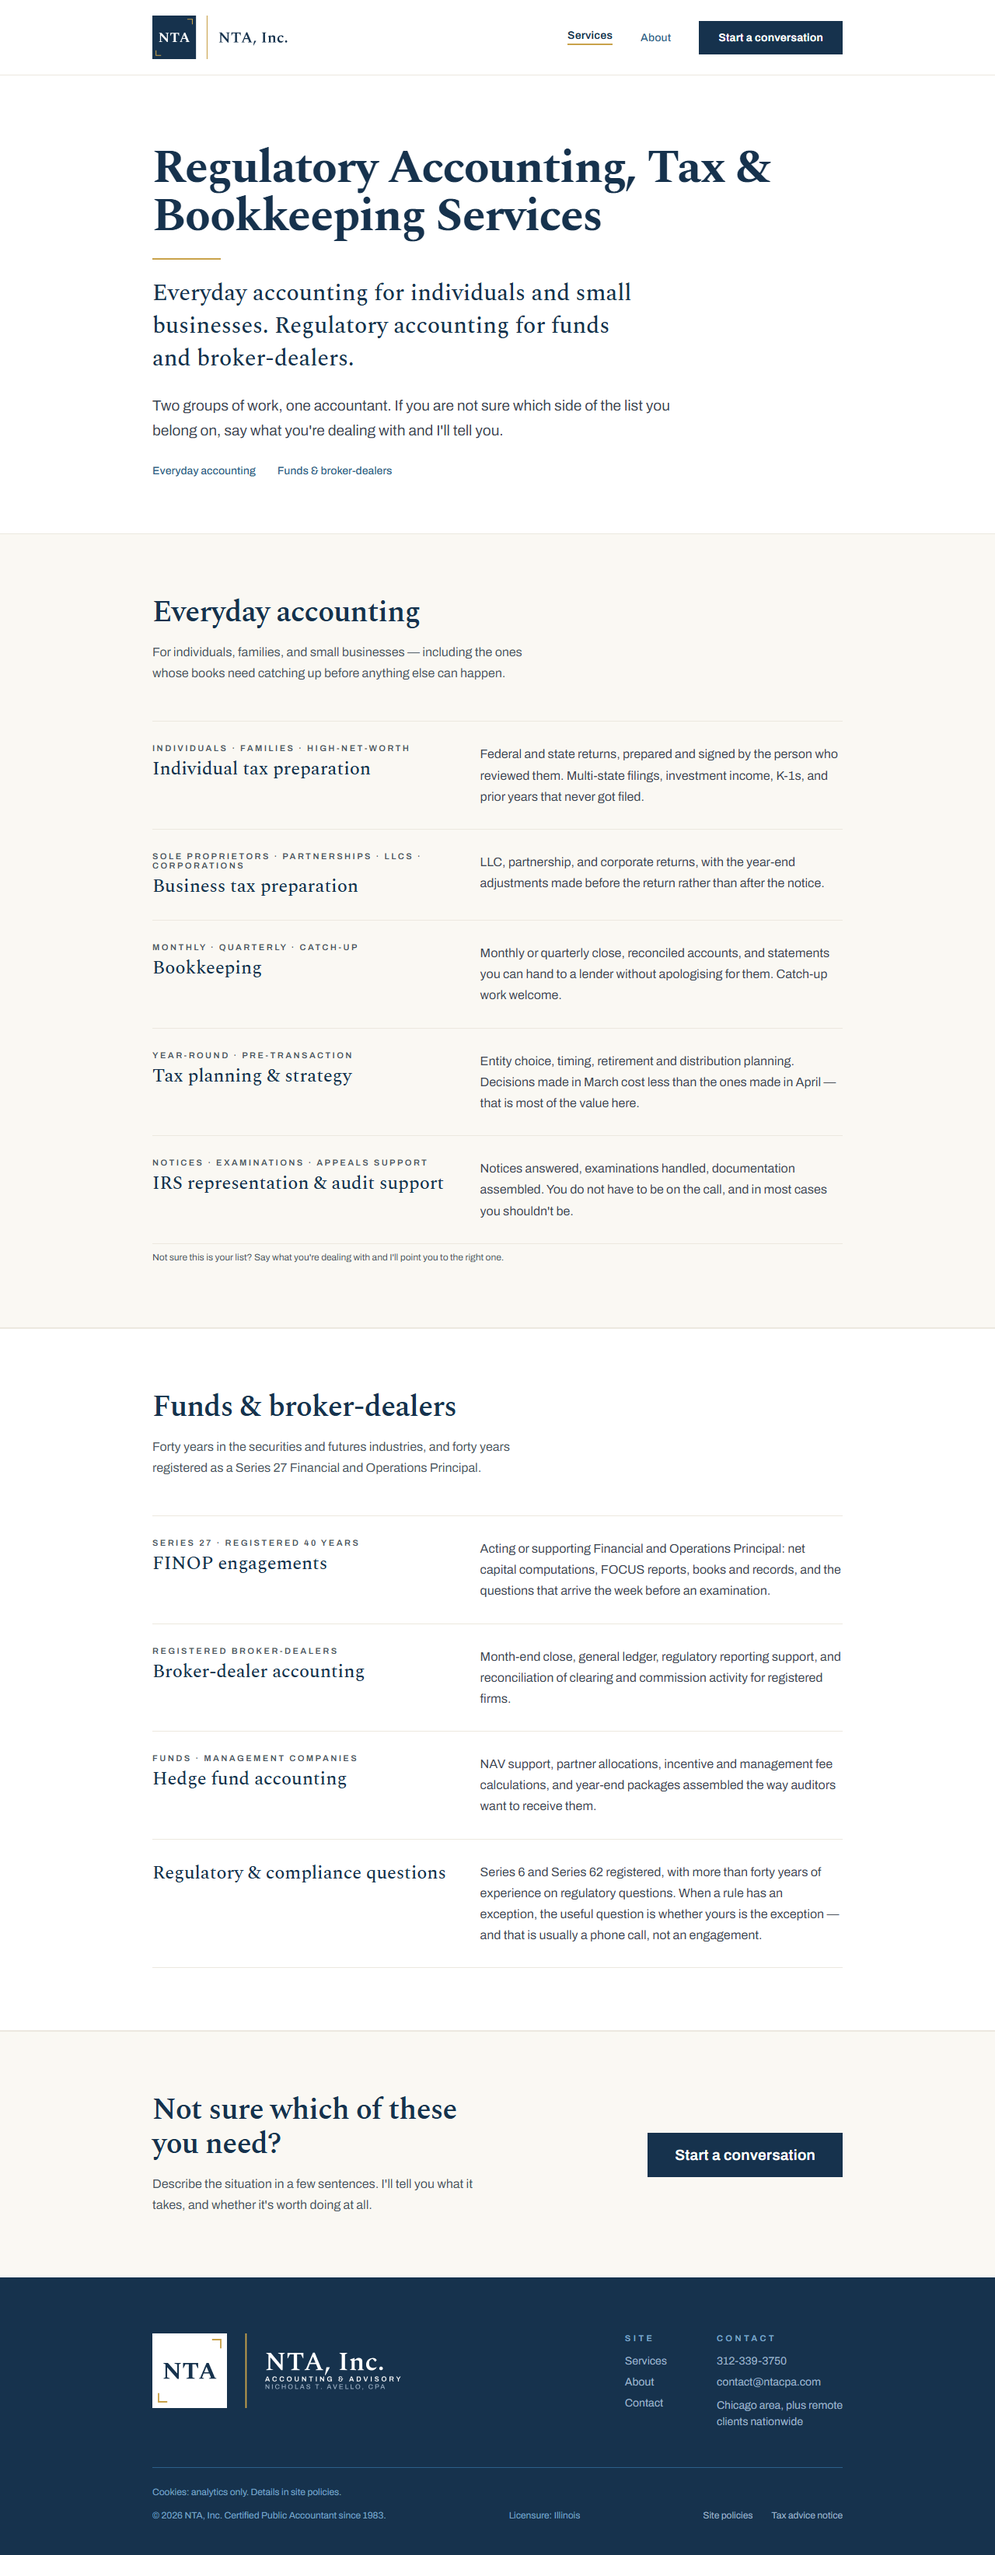
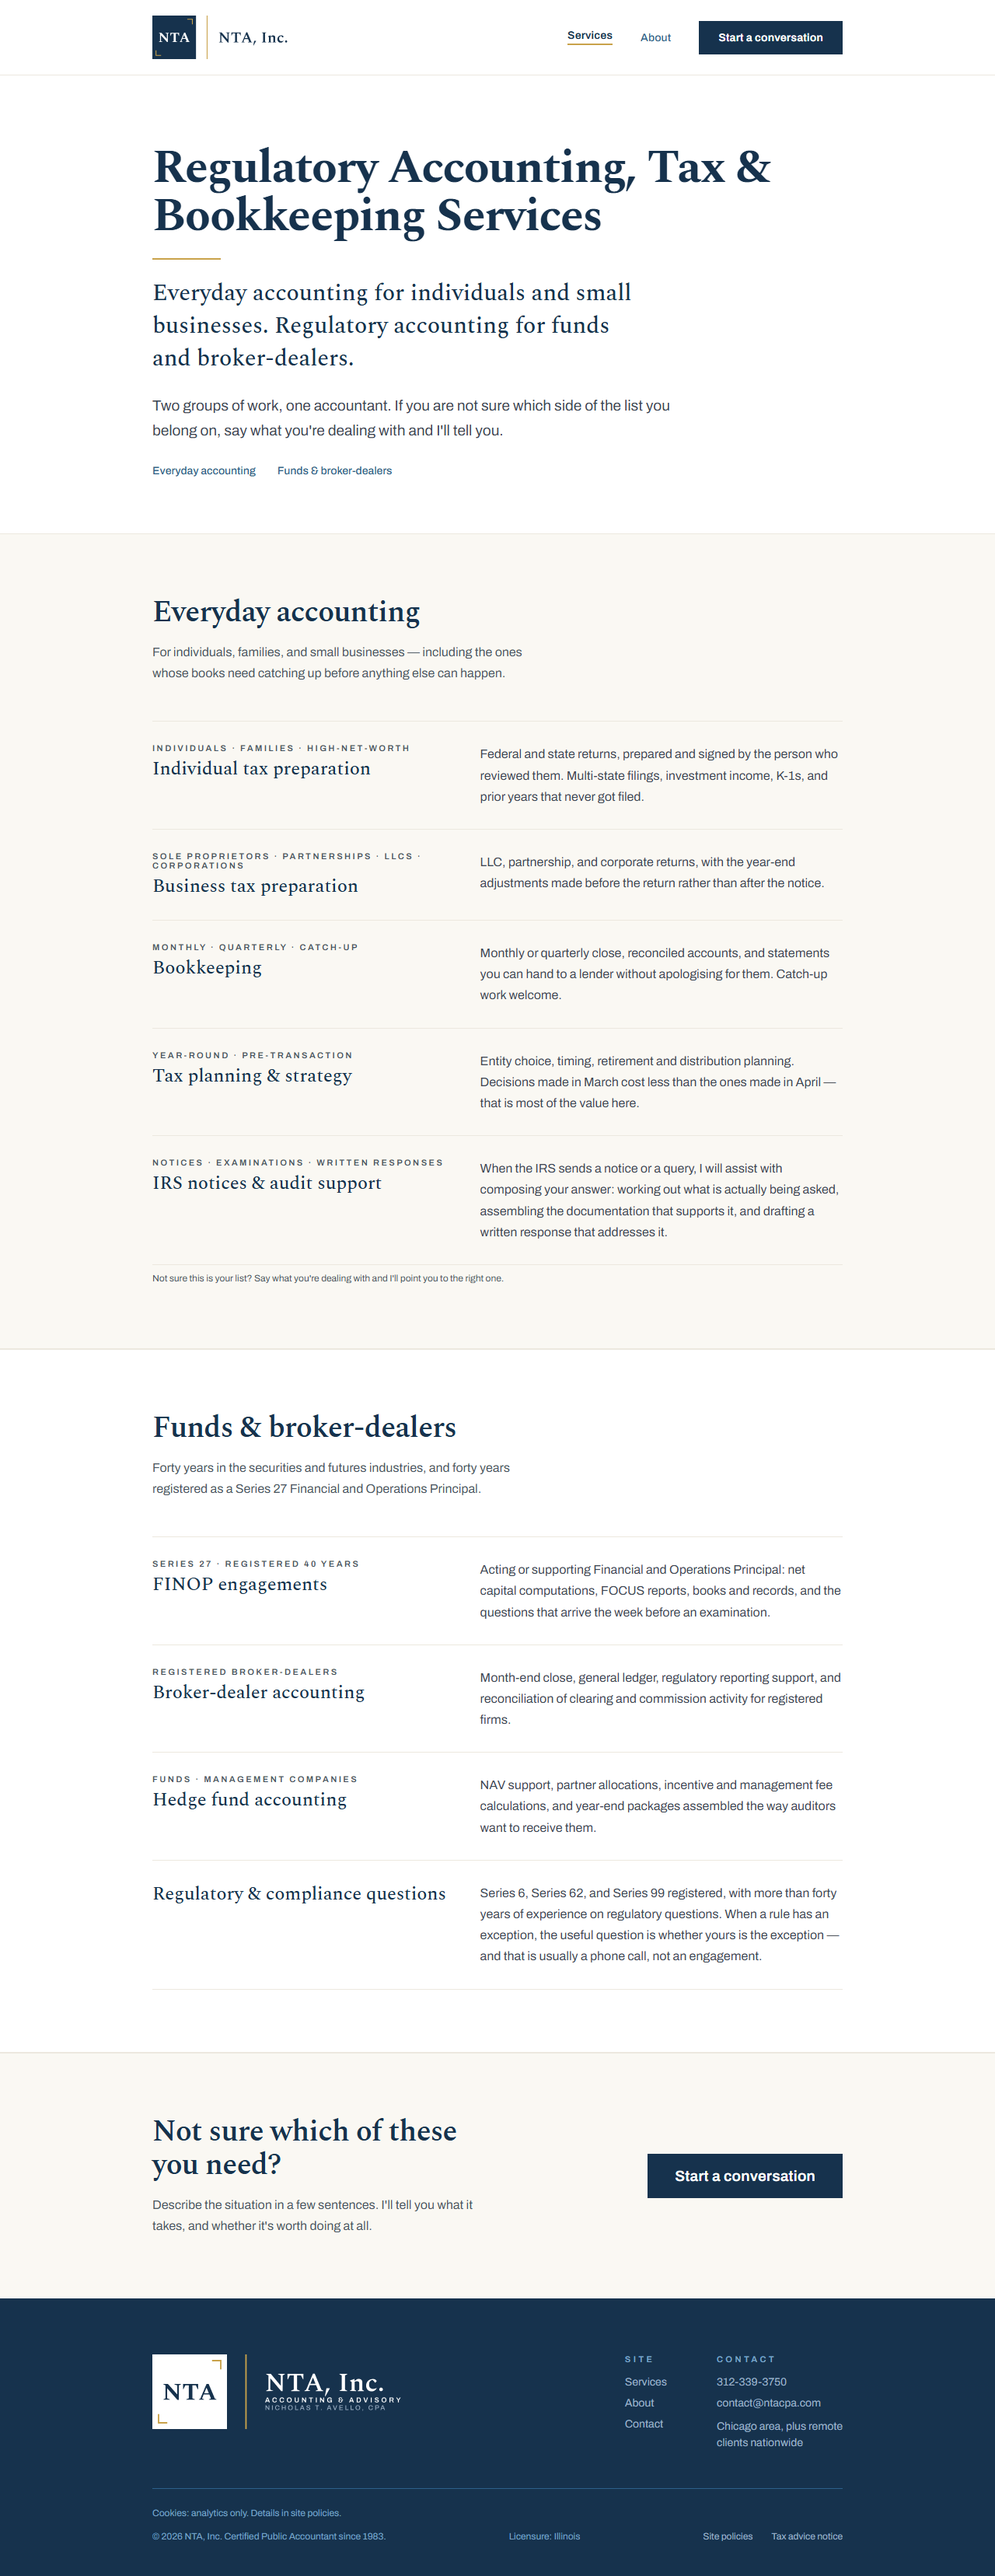
Apply Nicholas's Round 2 answers: IRS scope, Home card, Series 30, Milestones
Q1: he can no longer represent clients before the IRS, so the service is
now "IRS notices & audit support" with copy about composing written
responses; services meta description and PRODUCT.md scope line updated.
Q2: Series 30 "since 2021" (Credential.value required again). Q3: Home
card spells out Series 27 Financial & Operations Principal. Q6: regulatory
detail now lists Series 6, 62 and 99. Q8: About "Today" milestone.

The Home credentials card lets its label wrap while the value stays on
the right edge, scoped to the card. Legal pages are not edited.
Refreshes QA screenshots for Round 2.

diff --git a/src/data/site.ts b/src/data/site.ts
@@ -58,23 +58,21 @@ export const legalLinks: NavLink[] = [
    Two renderings of the same facts: the short form for the Home card, the
    long form for the About page. Kept as one source so they can't drift.
 
-   `featured` picks the short list for the Home card (CPA, Series 27 FINOP,
-   Series 30 NFA Branch Manager); About always renders the full list. This is
-   Nicholas's confirmed current registration set (Aug 2026) — verified
-   against his FINRA/NFA exam-history report, which also corrected the
-   original list he gave verbally: Series 4, 7, 9/10, 23/24, and 26 don't
-   appear on his actual record and were removed; Series 30 and 99 do and
-   were added. */
+   `featured` picks the short list for the Home card (CPA, Series 27
+   Financial & Operations Principal, Series 30 NFA Branch Manager); About
+   always renders the full list. This is Nicholas's confirmed current
+   registration set (Aug 2026) — verified against his FINRA/NFA
+   exam-history report, which also corrected the original list he gave
+   verbally: Series 4, 7, 9/10, 23/24, and 26 don't appear on his actual
+   record and were removed; Series 30 and 99 do and were added. */
 
 export type Credential = {
   short: string;
   long: string;
-  /* Optional: Series 30 carries no value. Templates still render an empty
-     `dd` so the `dl` stays valid. */
-  value?: string;
+  value: string;
   featured?: boolean;
   /* Home's teaser only shows the 3 featured rows — this picks their order
-     there (CPA, then the FINOP registration, then Series 30) independent of
+     there (CPA, then Series 27, then Series 30) independent of
      the full list's own order below. */
   featuredOrder?: number;
   /* About groups the full list by this — undefined (CPA) leads, ungrouped.
@@ -112,7 +110,7 @@ export const credentials: Credential[] = [
     group: 'general',
   },
   {
-    short: 'Series 27 — FINOP',
+    short: 'Series 27 — Financial & Operations Principal',
     long: 'Series 27 — Financial & Operations Principal',
     value: 'since 1986',
     featured: true,
@@ -122,6 +120,7 @@ export const credentials: Credential[] = [
   {
     short: 'Series 30 — NFA Branch Manager',
     long: 'Series 30 — NFA Branch Manager',
+    value: 'since 2021',
     featured: true,
     featuredOrder: 3,
     group: 'supervisory',
@@ -212,13 +211,13 @@ export const serviceGroups: ServiceGroup[] = [
         tag: 'YEAR-ROUND · PRE-TRANSACTION',
       },
       {
-        name: 'IRS representation & audit support',
-        homeName: 'IRS representation',
+        name: 'IRS notices & audit support',
+        homeName: 'IRS notices & audits',
         summary:
-          'Notices, examinations, and audit support — I assist in written responses.',
+          'Notices, examinations, and audit support — I assist with composing your written response.',
         detail:
-          "Notices answered, examinations handled, documentation assembled. You do not have to be on the call, and in most cases you shouldn't be.",
-        tag: 'NOTICES · EXAMINATIONS · APPEALS SUPPORT',
+          'When the IRS sends a notice or a query, I will assist with composing your answer: working out what is actually being asked, assembling the documentation that supports it, and drafting a written response that addresses it.',
+        tag: 'NOTICES · EXAMINATIONS · WRITTEN RESPONSES',
         homeFeatured: true,
       },
     ],
@@ -263,7 +262,7 @@ export const serviceGroups: ServiceGroup[] = [
         homeName: 'Compliance-side questions',
         summary: 'Forty years in the securities and futures industries, on call.',
         detail:
-          'Series 6 and Series 62 registered, with more than forty years of experience on regulatory questions. When a rule has an exception, the useful question is whether yours is the exception — and that is usually a phone call, not an engagement.',
+          'Series 6, Series 62, and Series 99 registered, with more than forty years of experience on regulatory questions. When a rule has an exception, the useful question is whether yours is the exception — and that is usually a phone call, not an engagement.',
         homeFeatured: true,
       },
     ],

diff --git a/PRODUCT.md b/PRODUCT.md
@@ -43,7 +43,7 @@ The load-bearing, verifiable specifics:
 Work and evaluation both happen against external deadlines and regulatory events, not on the practice's own schedule:
 
 - **Institutional:** net capital computations (including risk-based haircuts under Rule 15c3-1), FOCUS reports, books and records, NAV support, partner allocations, incentive and management fee calculations, year-end packages for auditors, K-1s, and FINRA/SEC examinations. CRD filings (U-4, U-5, BD, BDW, FOCUS, 3070) and NFA filings (7-R, 8-R, 1FR).
-- **Private:** federal and multi-state returns, Schedule C through S-corp/partnership/corporate returns, monthly and quarterly close, catch-up bookkeeping, entity choice and timing decisions, IRS notices, examinations, and appeals support.
+- **Private:** federal and multi-state returns, Schedule C through S-corp/partnership/corporate returns, monthly and quarterly close, catch-up bookkeeping, entity choice and timing decisions, IRS notices and examinations — help composing the written response, not representation.
 
 Inquiries frequently arrive mid-problem — the week before an examination, or after a notice has already been received.
 
@@ -82,6 +82,7 @@ Voice, confirmed and binding:
 - **Credentials, verified** against Nicholas's official FINRA/NFA exam-history record: CPA (1983), Series 3, 6, 27, 30, 62, 99. This record corrected an earlier verbal list — Series 4, 7, 9/10, 23/24, and 26 do not appear on it and were removed. **One open item:** Nicholas said "4 through 26 can be removed," which numerically includes Series 6, but Series 6 appears on his resume, on the official exam record with two dated entries (1992, 2023), and in current Services copy. Awaiting his confirmation before removing or keeping it.
 - **Series 27 registered 1986**, confirmed directly by Nicholas.
 - **Nicholas's feedback round, Oct 26 2026 (beta preview review):** the Home credentials card now shows CPA (since 1983), Series 27 — FINOP (since 1986) and Series 30 — NFA Branch Manager, in that order (Series 6 and 62 stay on About only); Series 30's "registered" value is removed, leaving it blank; Home's IRS representation summary now reads "I assist in written responses", narrowing the scope previously stated; business tax and regulatory service copy and the hero lede were reworded per his notes. **Pending Nicholas:** whether IRS work is written responses only or includes calls, examinations and appeals (the Services entry still reads the older, broader way); what Series 30 should show, if anything, or whether it is still active; the Series 27 label wording ("Financial Principal"); confirmation that Series 6 and 62 come off the Home card; approval of the edited hero, business tax and regulatory wording; and whether his Milestones notes continue past the Today entry.
+- **Nicholas's feedback round 2, Oct 2026 (answers to the open questions):** Nicholas states he can no longer represent clients before the IRS, following a change in Illinois law; he assists with composing written responses to IRS notices and queries, so the IRS service is now "IRS notices & audit support" and no site copy should imply representation, handling examinations or calls, or appeals (legal pages not edited; reviewed separately). Home credentials card is CPA (since 1983), Series 27 — Financial & Operations Principal (since 1986), Series 30 — NFA Branch Manager (since 2021); NFA confirmed. Hero lede approved. Regulatory service copy now lists Series 6, Series 62 and Series 99 as registered. The About "Today" milestone was rewritten by Nicholas.
 - **Licensure jurisdiction: Illinois**, confirmed directly.
 - **Contact:** phone 312-339-3750 (confirmed); email `contact@ntacpa.com` (confirmed; the interim `ntainc@att.net` is retired with this site).
 - **Resume** on file, used to corroborate credentials and career history.
